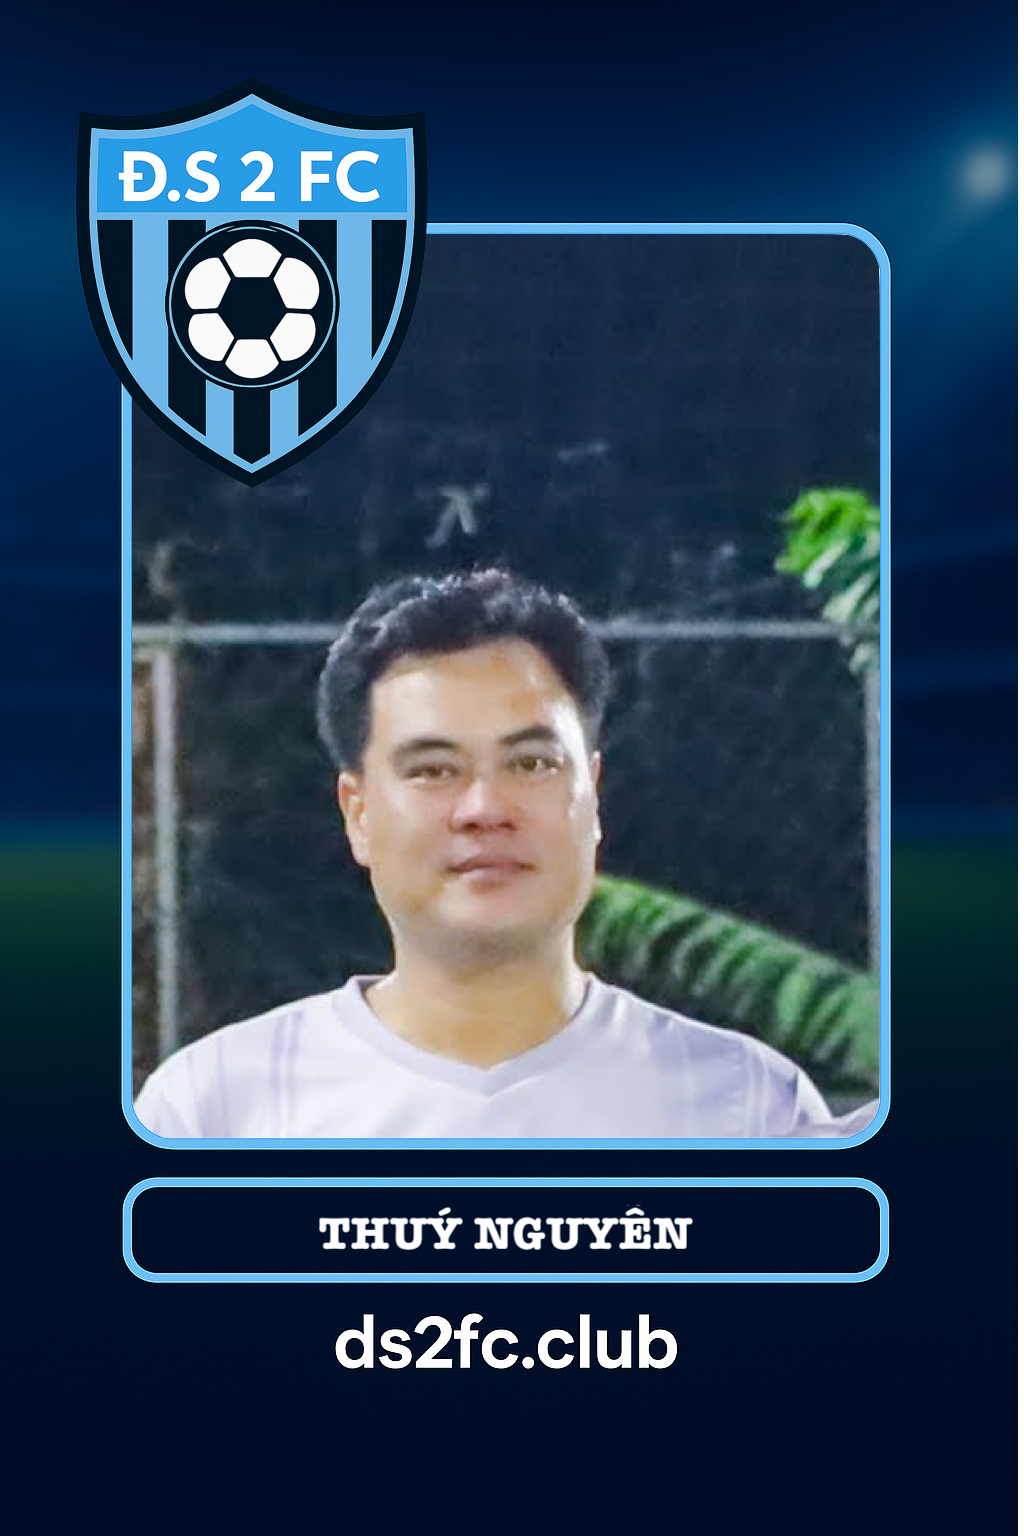
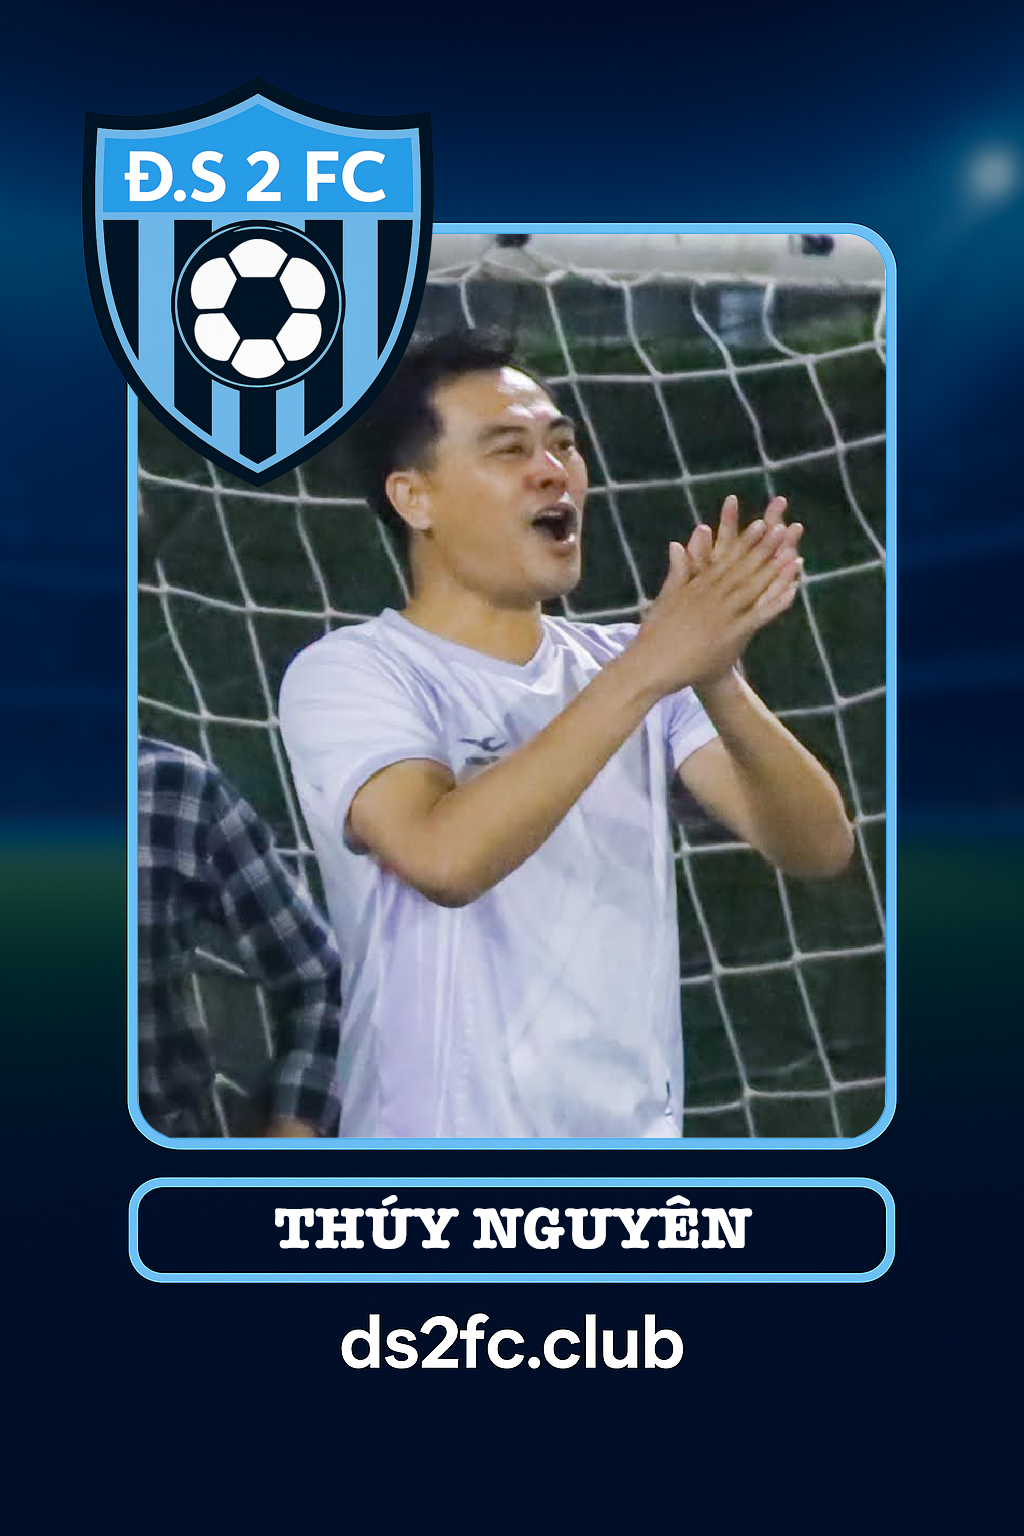
Deploy aefc on Thu Jul 24 13:14:30 SEAST 2025

diff --git a/flutter_service_worker.js b/flutter_service_worker.js
@@ -50,7 +50,7 @@ const RESOURCES = {"assets/AssetManifest.bin": "ec9d71df0f550d30891159817688bbe6
 "assets/assets/images/players/nguyencuong.png": "9e577e94ad8db9d6a9eb8a818359b284",
 "assets/assets/images/players/nguyendinh.png": "68324199d76022fae2f48f09d4fd9bf3",
 "assets/assets/images/players/nguyenthanhtam.png": "332c8e6b47972f8a6c28a2a6ed286d75",
-"assets/assets/images/players/nguyenthuy.png": "a561e06332fc48ee9c950f27323e66f7",
+"assets/assets/images/players/nguyenthuy.png": "3a1631cc73dbf44cdf51253e44fdb988",
 "assets/assets/images/players/quanglam.png": "b45af4a2a5358509b4fd854030835aa5",
 "assets/assets/images/players/quangteo.png": "7da9ea2c2590e8caaa8c942d2022ad94",
 "assets/assets/images/players/sinhgia2020.jpg": "30a8c77b6bff3e7c8bff0eaf124739fa",
@@ -90,7 +90,7 @@ const RESOURCES = {"assets/AssetManifest.bin": "ec9d71df0f550d30891159817688bbe6
 "canvaskit/skwasm.wasm": "39dd80367a4e71582d234948adc521c0",
 "favicon.png": "4e1c00567e5fd8927d26abb9fc4010e8",
 "flutter.js": "83d881c1dbb6d6bcd6b42e274605b69c",
-"flutter_bootstrap.js": "410c16f74cbdd649df6fbbb7886b1b93",
+"flutter_bootstrap.js": "93e4c2452e713dc00cf9327919104650",
 "icons/Icon-192.png": "b858eec0d5dfa6aa3181e070f0afdded",
 "icons/Icon-512.png": "90395b7ead299b7700b1ed3760e1d29e",
 "icons/Icon-maskable-192.png": "b858eec0d5dfa6aa3181e070f0afdded",

diff --git a/flutter_bootstrap.js b/flutter_bootstrap.js
@@ -39,6 +39,6 @@ _flutter.buildConfig = {"engineRevision":"8cd19e509d6bece8ccd74aef027c4ca9473630
 
 _flutter.loader.load({
   serviceWorkerSettings: {
-    serviceWorkerVersion: "3477912480"
+    serviceWorkerVersion: "1216122397"
   }
 });
